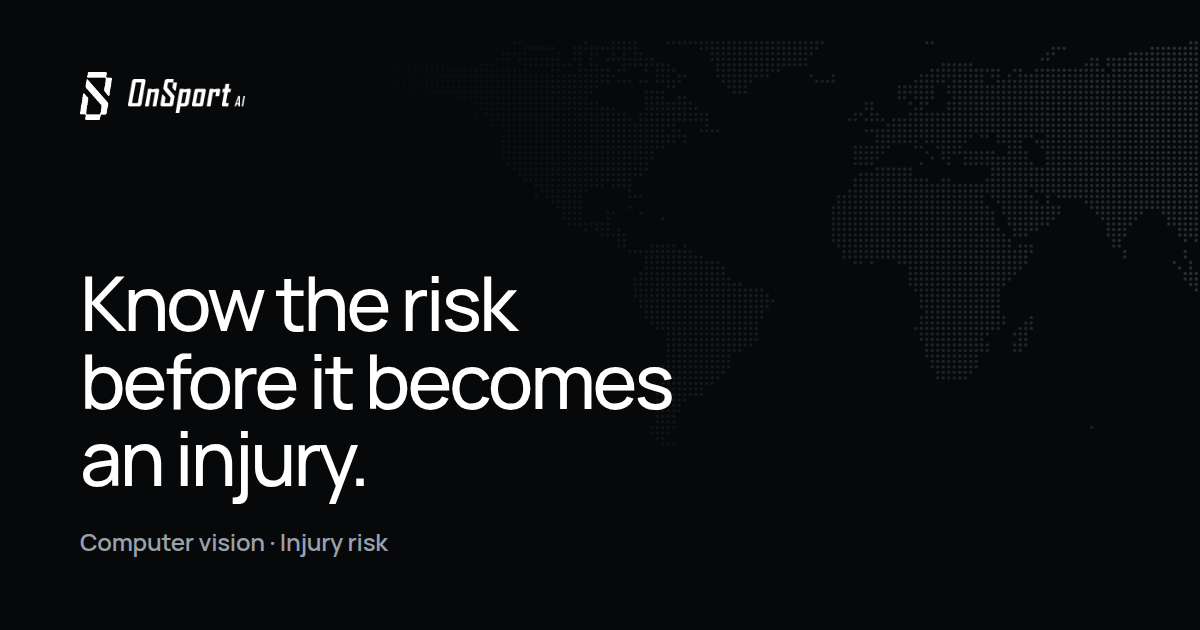
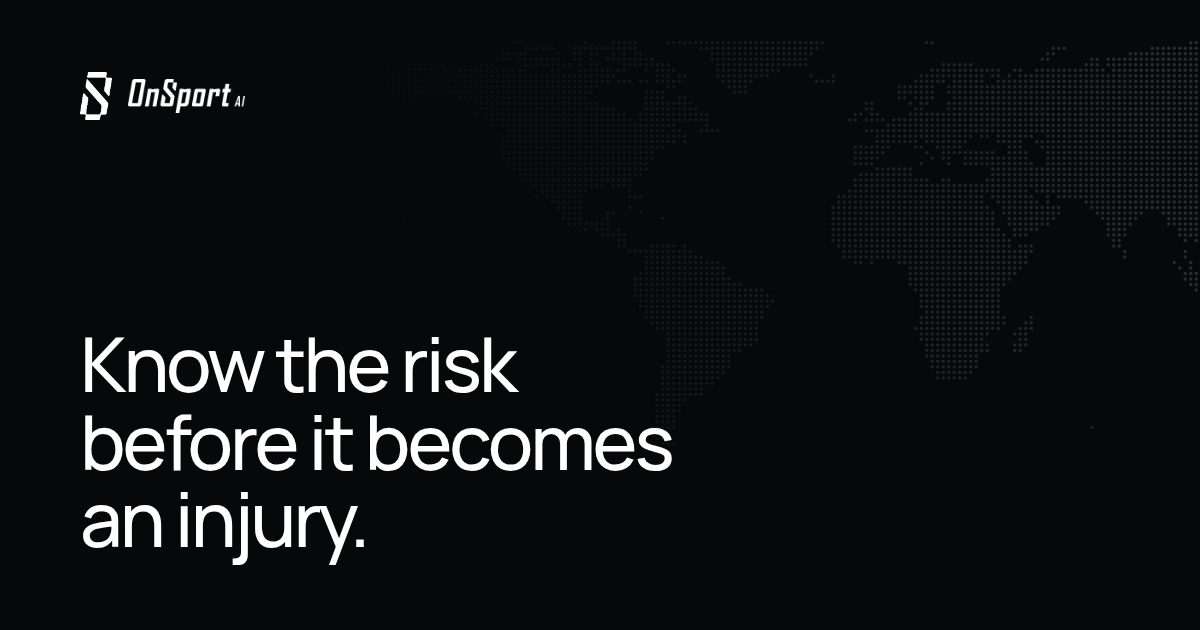
Remove the 'Computer vision · Injury risk' label from the hero and preview image
Claude-Session: https://claude.ai/code/session_01YMFo3wSEmtHx5EyD6TG24x

Changed region(s): [[0.0617, 0.4222, 0.555, 0.9048]]

diff --git a/onsport/index.html b/onsport/index.html
@@ -63,7 +63,6 @@
       </div>
 
       <div class="hero__strip">
-        <span>Computer vision · Injury risk</span>
         <button type="button" class="video-toggle" id="video-toggle" aria-pressed="false" aria-label="Pause background video">
           <span class="video-toggle__icon" aria-hidden="true">❚❚</span><span class="video-toggle__text">Pause</span>
         </button>

diff --git a/onsport/style.css b/onsport/style.css
@@ -262,7 +262,7 @@ input:focus-visible, textarea:focus-visible { outline: none; }
   padding: 0 24px 32px;
   display: flex;
   flex-wrap: wrap;
-  justify-content: space-between;
+  justify-content: flex-end;
   align-items: center;
   gap: 12px;
   font-family: var(--mono);
